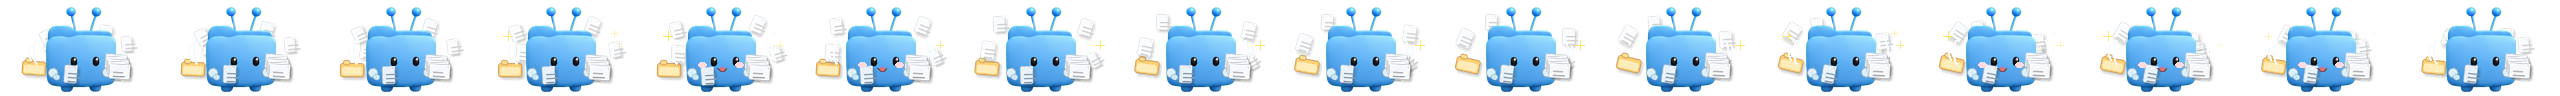
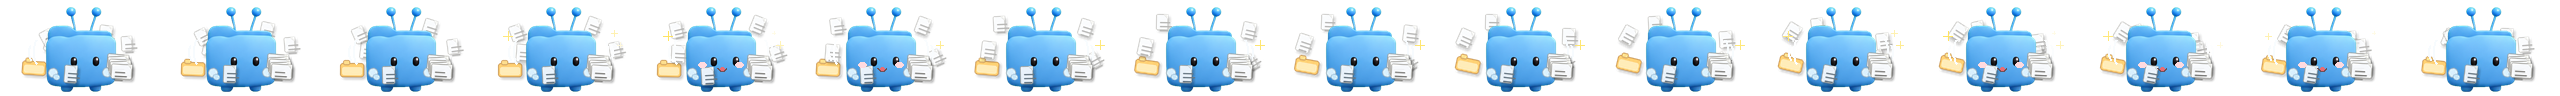
Add theme contrast audits for mascot sprite sheets

diff --git a/.codex/skills/sprite-sheet-animation-updater/scripts/generate_allthethings_operation_rows.py b/.codex/skills/sprite-sheet-animation-updater/scripts/generate_allthethings_operation_rows.py
@@ -39,6 +39,7 @@ STANDALONE_STRIPS = {
     "intro_welcome": "NibIntroWelcomeStrip",
     "flydown": "NibFlydownStrip",
 }
+PAPER_HEAVY_PREVIEW_NAMES = {"indexing", "intro-welcome", "flydown"}
 SCALE = 4
 INTRO_FRAME_COUNT = 32
 FLYDOWN_FRAME_COUNT = 10
@@ -81,7 +82,7 @@ def draw_shadowed_document(size: tuple[int, int] = (18, 23), angle: float = 0, a
     shadow_draw.rounded_rectangle(
         [x0 + 2 * SCALE, y0 + 2 * SCALE, x1 + 2 * SCALE, y1 + 2 * SCALE],
         radius=radius,
-        fill=(0, 0, 0, 78),
+        fill=(0, 0, 0, 86),
     )
     image.alpha_composite(shadow.filter(ImageFilter.GaussianBlur(1.2 * SCALE)))
 
@@ -89,21 +90,21 @@ def draw_shadowed_document(size: tuple[int, int] = (18, 23), angle: float = 0, a
         [x0, y0, x1, y1],
         radius=radius,
         fill=(247, 249, 252, 255),
-        outline=(205, 208, 212, 255),
+        outline=(170, 169, 164, 255),
         width=SCALE,
     )
     fold = 5 * SCALE
     draw.polygon(
         [(x1 - fold, y0), (x1, y0), (x1, y0 + fold)],
-        fill=(232, 233, 235, 255),
-        outline=(198, 200, 202, 255),
+        fill=(231, 231, 227, 255),
+        outline=(158, 157, 153, 255),
     )
     for index, line_width in enumerate((10, 12, 8)):
         y = y0 + (8 + index * 4) * SCALE
         draw.rounded_rectangle(
             [x0 + 4 * SCALE, y, x0 + (4 + line_width) * SCALE, y + SCALE],
             radius=max(1, SCALE // 2),
-            fill=(156, 158, 161, 210),
+            fill=(116, 115, 111, 225),
         )
 
     image = image.resize((width + pad * 2, height + pad * 2), Image.Resampling.LANCZOS)
@@ -240,7 +241,7 @@ def operation_body_frames(strips: dict[str, list[Image.Image]], operation: str, 
 
 def draw_indexing_stack(canvas: Image.Image, frame_index: int, frame_count: int) -> None:
     wobble = sin((frame_index / frame_count) * 2 * pi) * 1.0
-    base_x = 116
+    base_x = 118
     base_y = 62
     for index in range(5):
         angle = [-5, 3, -2, 2, -3][index]
@@ -665,6 +666,51 @@ def save_contact_sheet(output_path: Path, frames: list[Image.Image]) -> None:
     background.convert("RGB").save(output_path)
 
 
+def make_app_background(size: tuple[int, int], theme: str) -> Image.Image:
+    if theme == "light":
+        row_colors = ((255, 255, 255, 255), (244, 244, 244, 255))
+        divider_color = (229, 229, 229, 255)
+    elif theme == "dark":
+        row_colors = ((31, 31, 31, 255), (43, 43, 43, 255))
+        divider_color = (50, 50, 50, 255)
+    else:
+        raise ValueError(f"Unknown preview theme: {theme}")
+
+    width, height = size
+    background = Image.new("RGBA", size, row_colors[0])
+    draw = ImageDraw.Draw(background)
+    row_height = 36
+    for y in range(0, height, row_height):
+        color = row_colors[(y // row_height) % 2]
+        draw.rectangle([0, y, width, min(height, y + row_height) - 1], fill=color)
+        draw.line([(0, y), (width, y)], fill=divider_color)
+    return background
+
+
+def save_app_background_contact_sheet(output_path: Path, frames: list[Image.Image], theme: str) -> None:
+    scale = 2
+    gap = 8
+    label_height = 22
+    frame_width = CELL_WIDTH * scale
+    frame_height = CELL_HEIGHT * scale
+    width = len(frames) * frame_width + (len(frames) + 1) * gap
+    height = frame_height + label_height + gap * 2
+    is_light = theme == "light"
+    sheet_background = Image.new("RGBA", (width, height), (246, 246, 246, 255) if is_light else (26, 26, 26, 255))
+    draw = ImageDraw.Draw(sheet_background)
+    label_fill = (50, 50, 50, 255) if is_light else (230, 230, 230, 255)
+
+    for index, frame in enumerate(frames):
+        x = gap + index * (frame_width + gap)
+        y = gap + label_height
+        cell = make_app_background((frame_width, frame_height), theme)
+        cell.alpha_composite(frame.resize((frame_width, frame_height), Image.Resampling.NEAREST))
+        sheet_background.alpha_composite(cell, (x, y))
+        draw.text((x + 4, 4), f"{index:02d}", fill=label_fill)
+
+    sheet_background.convert("RGB").save(output_path)
+
+
 def save_audit_contact_sheet(output_path: Path, sections: list[tuple[str, list[Image.Image]]]) -> None:
     scale = 2
     gap = 8
@@ -702,6 +748,14 @@ def save_preview_gif(output_path: Path, frames: list[Image.Image], duration_ms: 
         background.alpha_composite(frame)
         preview_frames.append(background.convert("P", palette=Image.Palette.ADAPTIVE))
     preview_frames[0].save(output_path, save_all=True, append_images=preview_frames[1:], duration=duration_ms, loop=0, disposal=2)
+
+
+def save_theme_audit_previews(preview_dir: Path, name: str, frames: list[Image.Image]) -> None:
+    if name not in PAPER_HEAVY_PREVIEW_NAMES:
+        return
+
+    save_app_background_contact_sheet(preview_dir / f"{name}-light-contact-sheet.png", frames, "light")
+    save_app_background_contact_sheet(preview_dir / f"{name}-dark-contact-sheet.png", frames, "dark")
 
 
 def generate(repo_root: Path, frame_count: int, write_artifacts: bool) -> None:
@@ -753,6 +807,7 @@ def generate(repo_root: Path, frame_count: int, write_artifacts: bool) -> None:
             strip.save(preview_dir / f"{name}-strip.png")
             save_contact_sheet(preview_dir / f"{name}-contact-sheet.png", frames)
             save_preview_gif(preview_dir / f"{name}.gif", frames)
+            save_theme_audit_previews(preview_dir, name, frames)
 
     intro_strip = Image.new("RGBA", (INTRO_FRAME_COUNT * CELL_WIDTH, CELL_HEIGHT), (0, 0, 0, 0))
     intro_frame_dir = frame_dir / "NibIntroWelcomeStrip"
@@ -768,6 +823,7 @@ def generate(repo_root: Path, frame_count: int, write_artifacts: bool) -> None:
         intro_strip.save(preview_dir / "intro-welcome-strip.png")
         save_contact_sheet(preview_dir / "intro-welcome-contact-sheet.png", intro_frames)
         save_preview_gif(preview_dir / "intro-welcome.gif", intro_frames, duration_ms=250)
+        save_theme_audit_previews(preview_dir, "intro-welcome", intro_frames)
 
     flydown_strip = Image.new("RGBA", (FLYDOWN_FRAME_COUNT * CELL_WIDTH, CELL_HEIGHT), (0, 0, 0, 0))
     flydown_frame_dir = frame_dir / "NibFlydownStrip"
@@ -783,6 +839,7 @@ def generate(repo_root: Path, frame_count: int, write_artifacts: bool) -> None:
         flydown_strip.save(preview_dir / "flydown-strip.png")
         save_contact_sheet(preview_dir / "flydown-contact-sheet.png", flydown_frames)
         save_preview_gif(preview_dir / "flydown.gif", flydown_frames, duration_ms=72)
+        save_theme_audit_previews(preview_dir, "flydown", flydown_frames)
 
         audit_sections: list[tuple[str, list[Image.Image]]] = []
         for name, resource_name in OPERATION_STRIPS.items():

diff --git a/.codex/skills/sprite-sheet-animation-updater/SKILL.md b/.codex/skills/sprite-sheet-animation-updater/SKILL.md
@@ -13,9 +13,10 @@ Use this workflow for fixed-cell mascot sprite sheets where visual consistency m
 2. **Record the runtime layout.** Capture cell size, row order, frame counts, padded columns, sheet dimensions, and resource name used by app code.
 3. **Generate or edit one row at a time.** If using image generation, prompt for the exact frame count, a single horizontal row, fixed cell size, consistent baseline/scale, and no text/borders/background scene.
 4. **Post-process deterministically.** Remove background, crop/pad into fixed cells, and keep transparent gutters. Never let confetti, papers, gears, or other props determine mascot body scale.
-5. **Check model metrics before integrating.** Validate active frames for nonempty alpha, gutters, body height, body width, and body center registration. For Nib-style blue mascot sheets, use `scripts/validate_sprite_sheet.py`.
-6. **Integrate the asset.** Update app resource references, bundle scripts, animation metadata, and tests together. Remove obsolete sheet assets only after references are gone.
-7. **Run regression tests and build.** Run the validator, the project tests, and the app/resource build path that copies the sheet into the bundle.
+5. **Check theme contrast.** Composite transparent frames over the app's expected light and dark backgrounds before approving pale props, gray strokes, shadows, glows, or sparkles. A prop that reads on checkerboard or dark gray can disappear on a light table row.
+6. **Check model metrics before integrating.** Validate active frames for nonempty alpha, gutters, body height, body width, and body center registration. For Nib-style blue mascot sheets, use `scripts/validate_sprite_sheet.py`.
+7. **Integrate the asset.** Update app resource references, bundle scripts, animation metadata, and tests together. Remove obsolete sheet assets only after references are gone.
+8. **Run regression tests and build.** Run the validator, the project tests, and the app/resource build path that copies the sheet into the bundle.
 
 ## Rules To Preserve Character Model
 
@@ -26,6 +27,14 @@ Use this workflow for fixed-cell mascot sprite sheets where visual consistency m
 - For prop-heavy rows, verify the prop motion separately from mascot body registration. The magnifying glass can move; the mascot body should not slide unless intended.
 - Use transparent PNGs for runtime assets. Checkerboard previews are for inspection only and must not be referenced by app code.
 - Do not rely only on visual-frame width/height; those include props and can hide a narrow or drifting mascot body.
+
+## Theme And Background Contrast
+
+Transparent mascot assets must be audited on the UI backgrounds where they will actually appear. Generate light and dark composites for prop-heavy rows, especially when the animation includes white papers, pale glows, gray motion marks, or low-alpha shadows. Keep runtime assets theme-neutral unless the product explicitly requires theme-specific strips.
+
+For AllTheThings/Nib document props, prefer light paper fills with neutral or warm gray outlines, fold strokes, internal marks, and soft shadows. Avoid relying on very pale gray paper edges; they are hard to see on light-mode table stripes. Avoid blue-gray outlines and shadows near the mascot body because they can interfere with body-color validation and visually merge with Nib.
+
+Master sheets, contact sheets, checkerboards, and light/dark composites are audit artifacts only. App code should continue loading the standalone runtime strips directly.
 
 ## Idle Clip Pattern
 
